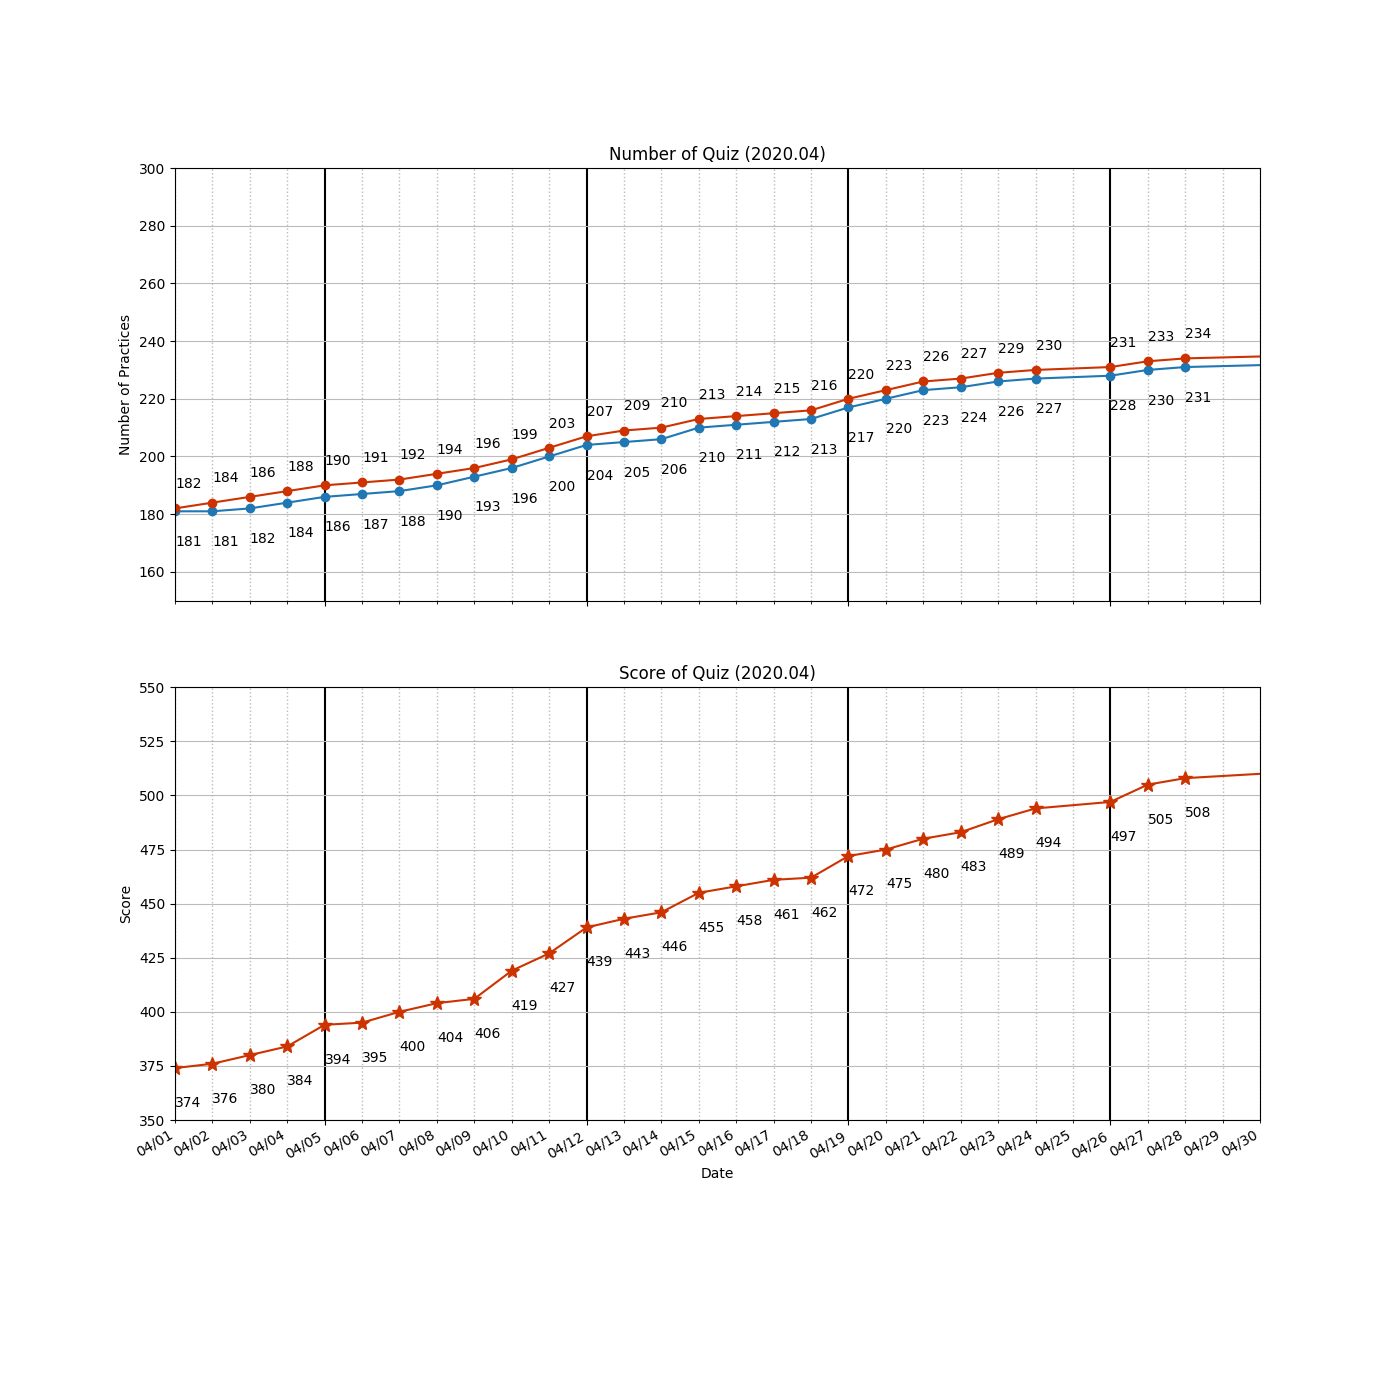
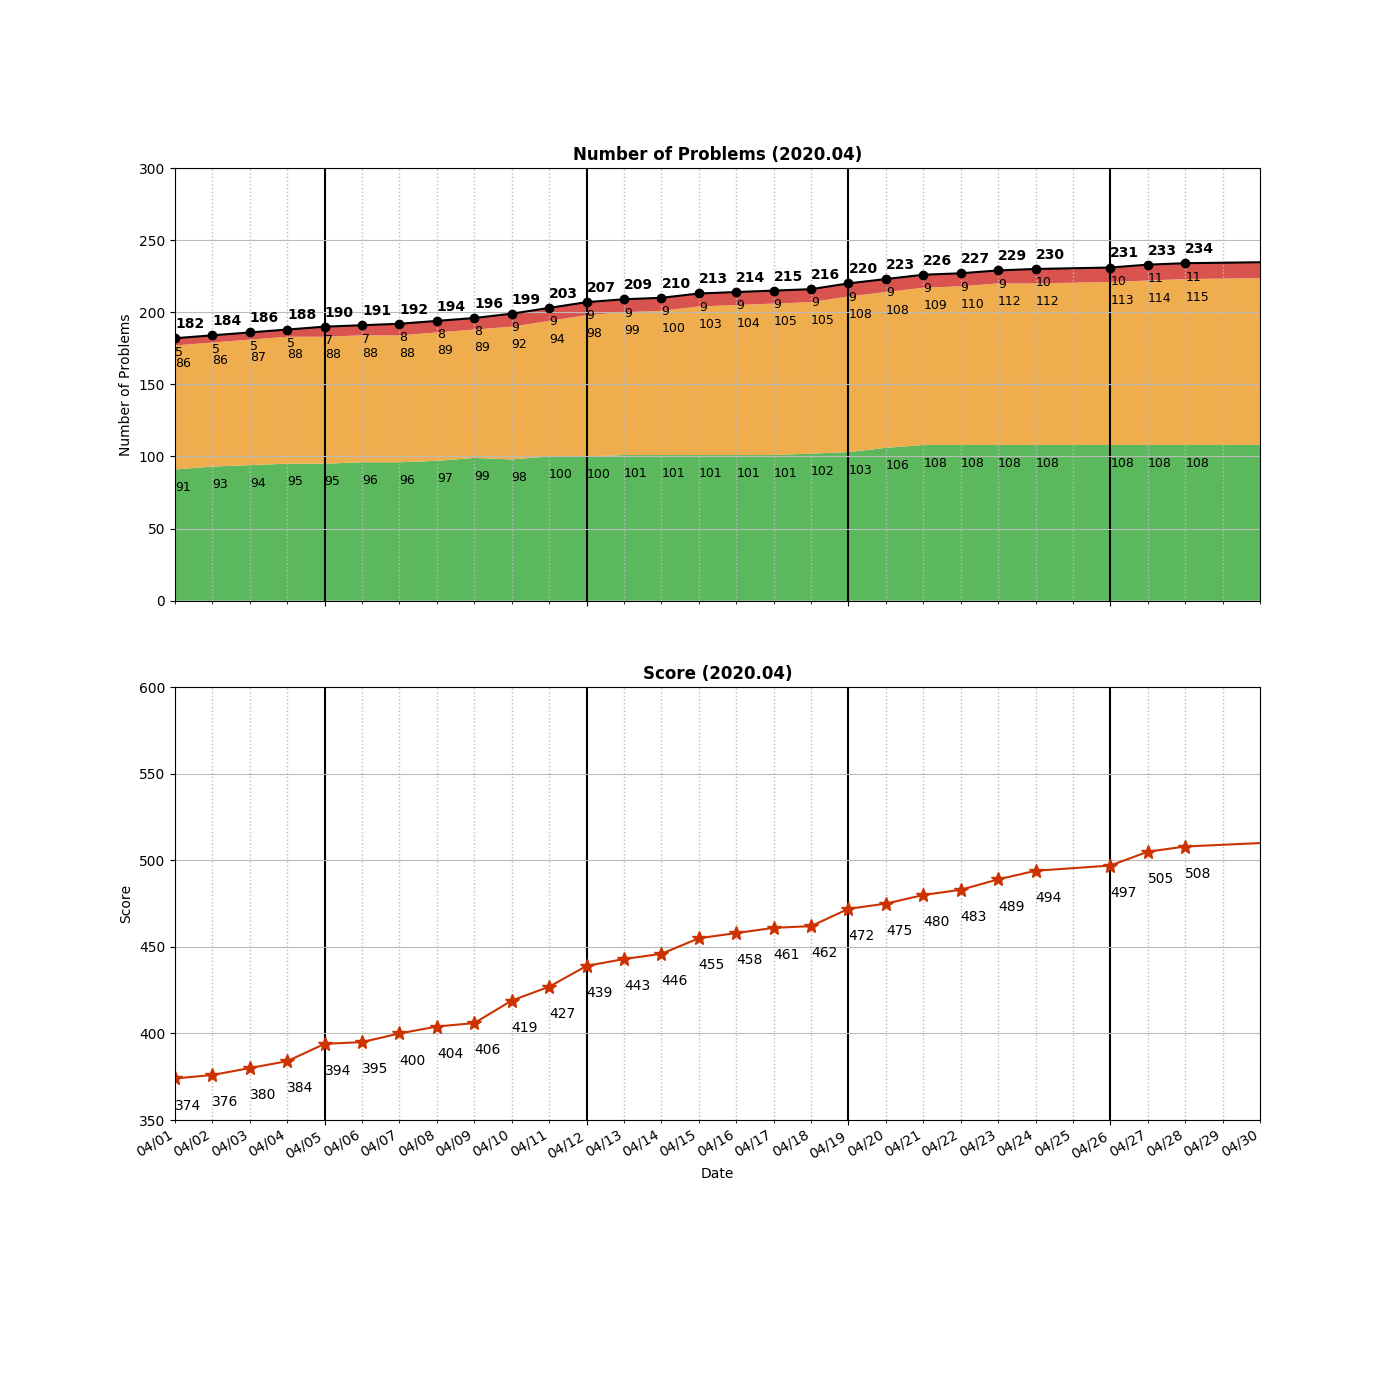
[Visualize] Changed to stackplot to show each difficulty; deprecate local number

diff --git a/algodraw.py b/algodraw.py
@@ -33,7 +33,12 @@ DATE_FORMATTER = "%Y-%m-%d"
 dates = []
 values = []      #file quiz number
 leetnumber = []  #leetcode quiz number
+easyNumber = []
+mediumNumber =[]
+hardNumber = []
 leetscore = []  #leetcode score 
+leetscore = []  #leetcode score 
+
 
 latest_date = ""
 
@@ -65,7 +70,7 @@ def writePrepare(today_date, today_value, today_lcode, score):
 ######################
 def draw(dates, values):
     fig, ax = plt.subplots(figsize=(14, 7))
-    
+
     # vertical dividers (week, day)
     xfmt = mdates.DateFormatter("%m/%d")
     xloc1 = mdates.WeekdayLocator(SUNDAY)
@@ -139,20 +144,26 @@ def draw(dates, values):
     annotate_y_offset = 12
 
     fig, axs = plt.subplots(2, 1, sharex=True, figsize=(14, 14))
-    axs[0].set(xlabel="Date", ylabel="Number of Practices",
-        title="Number of Quiz (2020.04)")
+    axs[0].set(xlabel="Date", ylabel="Number of Problems",
+        title="Number of Problems (2020.04)")
+    axs[0].set_title("Number of Problems (2020.04)", fontweight = 'bold')
+
     axs[0].set_xlim(datetime.datetime(2020,4,1), datetime.datetime(2020,4,30)) 
-    axs[0].set_ylim(150,300) #number of quiz
+    axs[0].set_ylim(0,300) #number of quiz
     axs[0].grid(which='major', color='k', axis ='x', linestyle='-', linewidth=1.5)
     axs[0].grid(which='minor', color='#bbbbbb', axis ='x', linestyle=':', linewidth=1)
     axs[0].grid(which='major', color='#bbbbbb', axis ='y')
-    axs[0].plot_date(dates, values,'-', marker='o')
-    axs[0].plot_date(dates, leetnumber,'-', marker='o', color='#cc3300')
+
+    y_stack = np.row_stack([easyNumber, mediumNumber, hardNumber])
+    axs[0].stackplot(dates, y_stack, colors=['#5cb85c', '#f0ad4e', '#d9534f'])
+    #axs[0].plot_date(dates, values,'-', marker='o')
+    axs[0].plot_date(dates, leetnumber,'-', marker='o', color='black')
 
     axs[1].set(xlabel="Date", ylabel="Score",
-        title="Score of Quiz (2020.04)")
+        title="Score (2020.04)")
     #ax2.set_xlim(datetime.datetime(2020,4,1), datetime.datetime(2020,4,30)) 
-    axs[1].set_ylim(350,550) #score of quiz
+    axs[1].set_title("Score (2020.04)", fontweight = 'bold')
+    axs[1].set_ylim(350,600) #score of quiz
     axs[1].grid(which='major', color='k', axis ='x', linestyle='-', linewidth=1.5)
     axs[1].grid(which='minor', color='#bbbbbb', axis ='x', linestyle=':', linewidth=1)
     axs[1].grid(which='major', color='#bbbbbb', axis ='y')
@@ -169,12 +180,14 @@ def draw(dates, values):
     plt.gcf().autofmt_xdate(which='both')
 
     # leetcode number
-    for i,j in zip(dates, leetnumber):
-        axs[0].annotate(str(j), xy=(i, j + annotate_y_offset - 5))
+    # for i,j in zip(dates, leetnumber):
+    #     axs[0].annotate(str(j), xy=(i, j + annotate_y_offset - 5))
+    for i in range(len(leetnumber)):
+        axs[0].annotate(leetnumber[i]  , xy=(dates[i], leetnumber[i] + annotate_y_offset - 5), fontweight = 'bold')
+        axs[0].annotate(hardNumber[i]  , xy=(dates[i], leetnumber[i] - annotate_y_offset - 0), fontsize = 9)
+        axs[0].annotate(mediumNumber[i], xy=(dates[i], easyNumber[i] + mediumNumber[i] - annotate_y_offset - 3), fontsize = 9)
+        axs[0].annotate(easyNumber[i]  , xy=(dates[i], easyNumber[i] - annotate_y_offset - 3),fontsize = 9)
 
-    # file number
-    for i,j in zip(dates, values):
-        axs[0].annotate(str(j), xy=(i, j - annotate_y_offset))
     
     # leetcode score
     for i,j in zip(dates, leetscore):
@@ -183,10 +196,13 @@ def draw(dates, values):
     plt.savefig(FILE_IMAGE_SCORE202004)
 
 
-    axs[0].set(xlabel="Date", ylabel="Number of Practices",
+    axs[0].set(xlabel="Date", ylabel="Number of Problems",
         title="Number of Quiz (2020.05)")
+    axs[0].set_title("Number of Problems (2020.05)", fontweight = 'bold')
+
     axs[1].set(xlabel="Date", ylabel="Score",
         title="Score of Quiz (2020.05)")
+    axs[1].set_title("Score (2020.05)", fontweight = 'bold')
     axs[0].set_xlim(datetime.datetime(2020,5,1), datetime.datetime(2020,5,31)) 
     plt.savefig(FILE_IMAGE_SCORE202005)
     #plt.show()
@@ -211,6 +227,9 @@ def read():
             values.append(int(file_count))
             leetscore.append(int(l_score))
             leetnumber.append(int(l_count_total))
+            easyNumber.append(int(l_count_easy))
+            mediumNumber.append(int(l_count_medium))
+            hardNumber.append(int(l_count_hard))
         elif len(split_line) == 2:
             date_str, val_str = split_line[0], split_line[1] 
             dates.append(datetime.datetime.strptime(date_str, DATE_FORMATTER)) 
